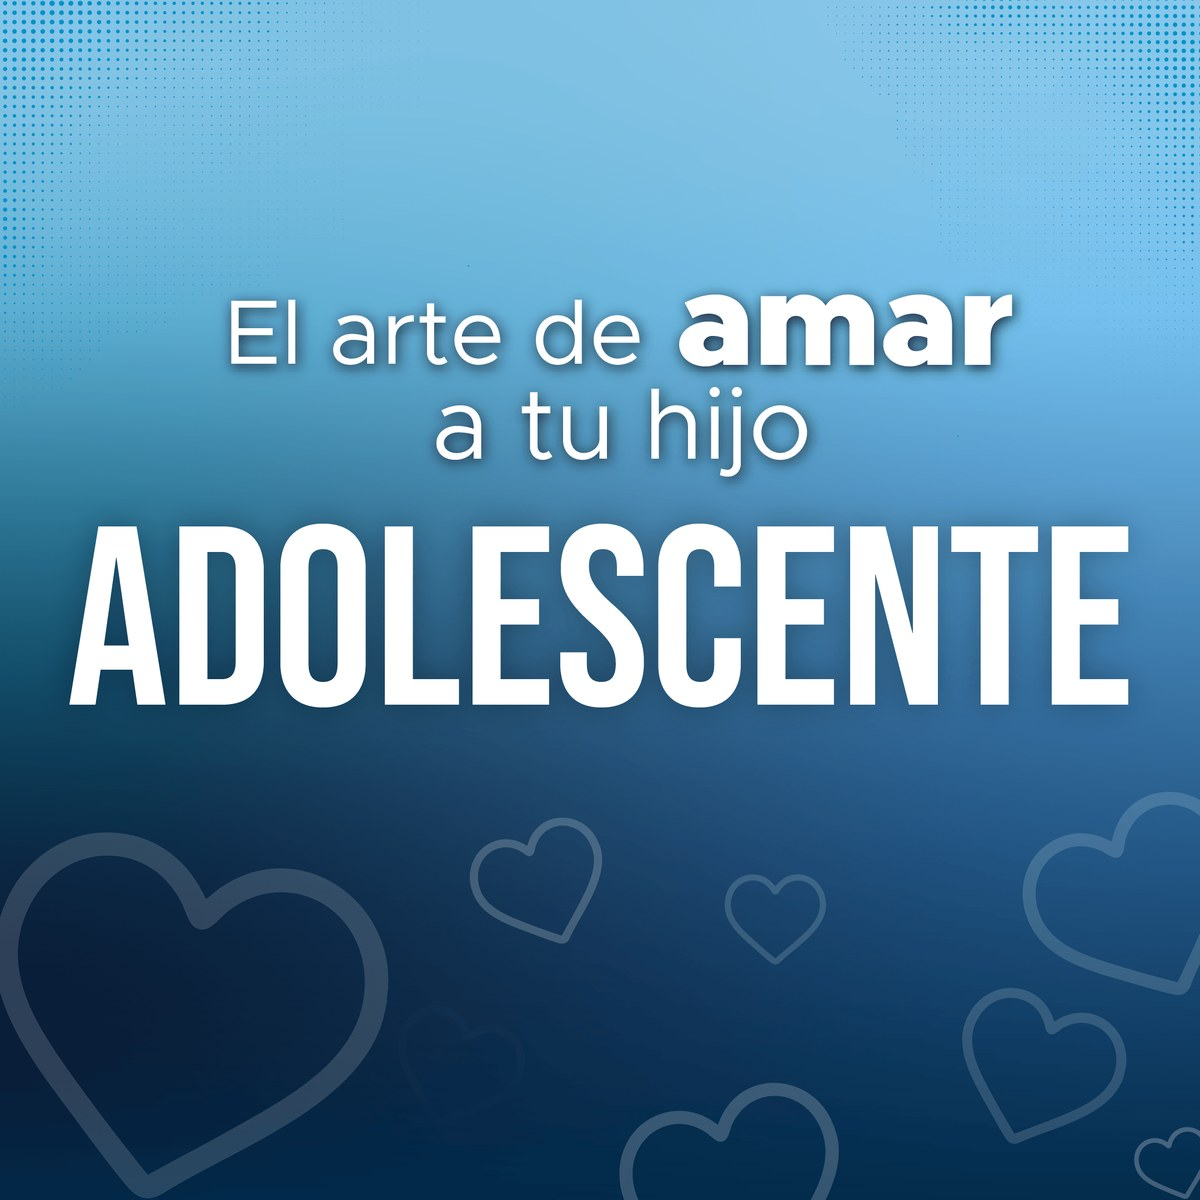
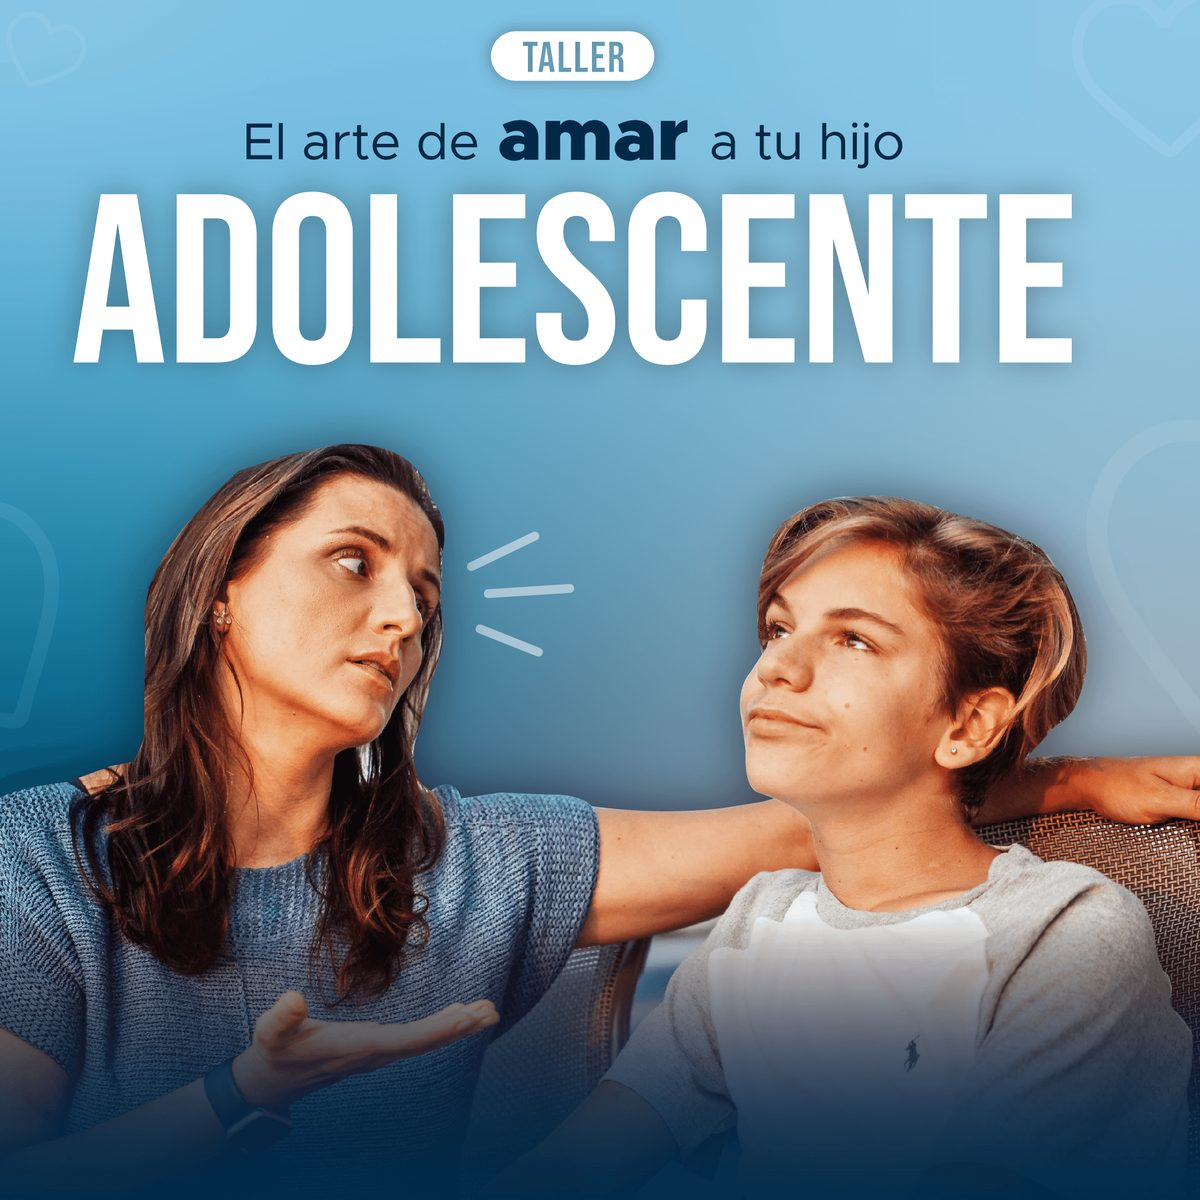
feat(web): «Libros publicados» con los tres y la miniatura del taller (#36)
- #quien y #facilitador: el rótulo «Obra» pasa a «Libros publicados», con
  Construyendo Familias Fuertes · Padres digitalmente responsables ·
  Inteligencias Múltiples en la Familia (en #quien, en cursiva y sin «Autor de»).
- Hero de la portada: «3 libros».
- og-merida-1200x1200.jpg y og-merida-1200x630.jpg reemplazados por los del
  insumo del 3/10 (el ?v= cambia solo); ogImageAlt de /merida: «Taller · El arte
  de amar a tu hijo adolescente».
- lo-que-mando-armando.test.ts: test nuevo contra la orden #36; «Obra» no queda
  como rótulo en ninguna página. Se lo vio fallar con dos mutaciones.
- Capturas actualizadas por la orden #36: inicio y taller (1440/900/390, texto y
  png) y taller-cabeza.json.

diff --git a/apps/web/src/lo-que-mando-armando.test.ts b/apps/web/src/lo-que-mando-armando.test.ts
@@ -59,9 +59,15 @@ const INSUMOS = join(REPO, '..', '..', '03 Producto', 'web', 'insumos', '2026-09
    comillas latinas. Esa orden es el insumo: Rodolfo no produce insumos, y una
    copia acá sería la segunda verdad que este archivo existe para evitar. */
 const PEDIDO_DEL_2_10 = join(REPO, '..', '..', '03 Producto', 'codice', 'ordenes', 'orden-33-la-web-sin-mi-espacio-por-ahora.md');
-const HAY_INSUMO = existsSync(INSUMOS) && existsSync(PEDIDO_DEL_2_10);
+/* ── El pedido del 3/10 (orden #36) ──────────────────────────────────────
+   «Libros publicados» con el tercer libro y la miniatura del taller. Llegó por
+   WhatsApp a Germán y dirección lo dejó escrito en la orden #36, entre comillas
+   latinas: esa orden es el insumo, por la misma razón que la #33. */
+const PEDIDO_DEL_3_10 = join(REPO, '..', '..', '03 Producto', 'codice', 'ordenes', 'orden-36-libros-publicados-y-miniatura.md');
+const HAY_INSUMO = existsSync(INSUMOS) && existsSync(PEDIDO_DEL_2_10) && existsSync(PEDIDO_DEL_3_10);
 const LEEME = HAY_INSUMO ? readFileSync(INSUMOS, 'utf8') : '';
 const PEDIDO = HAY_INSUMO ? readFileSync(PEDIDO_DEL_2_10, 'utf8') : '';
+const PEDIDO_36 = HAY_INSUMO ? readFileSync(PEDIDO_DEL_3_10, 'utf8') : '';
 const DIST = join(dirname(fileURLToPath(import.meta.url)), '..', 'dist');
 
 /**
@@ -210,6 +216,41 @@ suite('la web dice lo que mandó Armando, carácter por carácter', () => {
     expect(html.length, 'terminos.html no está en dist: corre el build antes').toBeGreaterThan(1000);
     expect(html, 'lo publicado').toContain(RESERVAS);
     expect(html, 'el texto de antes').not.toContain('se reservan en Mi espacio');
+  });
+
+  it('#36: «Libros publicados» con los tres, «3 libros» en el hero y el alt de la miniatura', () => {
+    const LIBROS = 'Construyendo Familias Fuertes · Padres digitalmente responsables · Inteligencias Múltiples en la Familia';
+    const CLAVE = 'Libros publicados';
+    const ALT = 'Taller · El arte de amar a tu hijo adolescente';
+    for (const valor of [LIBROS, CLAVE, ALT, '3 LIBROS']) {
+      expect(PEDIDO_36, `«${valor}» no está en el pedido del 3/10`).toContain(`«${valor}»`);
+    }
+    /* Las dos fichas. La de #quien arma el valor con tres <em>, así que se
+       compara la suma de sus partes: el texto que lee la persona. */
+    const quien = web.inicio.quien;
+    expect(quien.fichaLibrosClave).toBe(CLAVE);
+    expect([quien.fichaLibrosLibro1, quien.fichaLibrosLibro2, quien.fichaLibrosLibro3].join(quien.fichaLibrosEntre)).toBe(LIBROS);
+    expect(web.taller.facilitador.librosClave).toBe(CLAVE);
+    expect(web.taller.facilitador.librosValor).toBe(LIBROS);
+    /* El hero lo pone en mayúsculas por CSS; el texto es «3 libros». */
+    expect(web.inicio.hero.micro3.toUpperCase()).toBe('3 LIBROS');
+    expect(web.taller.head.ogImageAlt).toBe(ALT);
+
+    /* Lo publicado: «Obra» no queda como rótulo en ninguna página, ni «2 libros». */
+    for (const { archivo } of RUTAS) {
+      const ruta = join(DIST, archivo);
+      const html = existsSync(ruta) ? readFileSync(ruta, 'utf8') : '';
+      expect(html.length, `${archivo} no está en dist: corre el build antes`).toBeGreaterThan(1000);
+      expect(html, `${archivo} todavía tiene el rótulo «Obra»`).not.toMatch(/>\s*Obra\s*</);
+      expect(html, `${archivo} todavía dice «2 libros»`).not.toMatch(/>\s*2 libros\s*</i);
+    }
+    const inicio = readFileSync(join(DIST, 'index.html'), 'utf8');
+    expect(inicio, 'la ficha de #quien, con los tres en cursiva').toContain(
+      `<em>${quien.fichaLibrosLibro1}</em> · <em>${quien.fichaLibrosLibro2}</em> · <em>${quien.fichaLibrosLibro3}</em>`,
+    );
+    const merida = readFileSync(join(DIST, 'merida.html'), 'utf8');
+    expect(merida, 'la ficha de #facilitador').toContain(LIBROS);
+    expect(merida, 'el og:image:alt de /merida').toContain(`property="og:image:alt" content="${ALT}"`);
   });
 
   it('y el lector de núcleos distingue una línea de núcleo de la prosa de al lado', () => {

diff --git a/apps/web/src/web/taller/Facilitador.tsx b/apps/web/src/web/taller/Facilitador.tsx
@@ -6,7 +6,7 @@ import { Seccion } from '../comun/Seccion';
  * Sobre el facilitador.
  *
  * ── El `style=` que había acá, y por qué ya no está (orden #03) ───────────
- * Las claves de la ficha —«Familia», «Práctica», «Formación», «Obra»— llevaban
+ * Las claves de la ficha —«Familia», «Práctica», «Formación», «Obra» (hoy «Libros publicados», #36)— llevaban
  * el color escrito a mano en línea, crema al 60 %, copiado del sitio estático.
  * La #01 lo portó igual y lo dejó anotado como redundante: la regla
  * `.oscuro .ficha li span:first-child` decía exactamente lo mismo.
@@ -37,7 +37,7 @@ export function Facilitador() {
             <li><span>{t('taller.facilitador.familiaClave')}</span><span>{t('taller.facilitador.familiaValor')}</span></li>
             <li><span>{t('taller.facilitador.practicaClave')}</span><span>{t('taller.facilitador.practicaValor')}</span></li>
             <li><span>{t('taller.facilitador.formacionClave')}</span><span>{t('taller.facilitador.formacionValor')}</span></li>
-            <li><span>{t('taller.facilitador.obraClave')}</span><span>{t('taller.facilitador.obraValor')}</span></li>
+            <li><span>{t('taller.facilitador.librosClave')}</span><span>{t('taller.facilitador.librosValor')}</span></li>
           </ul>
           <blockquote className="cita u-mt-5 reveal" data-d="3">
             {t('taller.facilitador.cita')}<small>{t('taller.facilitador.citaFirma')}</small>

diff --git a/apps/web/src/web/inicio/Quien.tsx b/apps/web/src/web/inicio/Quien.tsx
@@ -40,12 +40,13 @@ export function Quien() {
               <span>{t('inicio.quien.fichaPracticaValor')}</span>
             </li>
             <li>
-              <span><Icono nombre="obra" ancho={24} alto={24} />{t('inicio.quien.fichaObraClave')}</span>
+              <span><Icono nombre="obra" ancho={24} alto={24} />{t('inicio.quien.fichaLibrosClave')}</span>
               <span>
-                {t('inicio.quien.fichaObraAntes')}
-                <em>{t('inicio.quien.fichaObraLibro1')}</em>
-                {t('inicio.quien.fichaObraEntre')}
-                <em>{t('inicio.quien.fichaObraLibro2')}</em>
+                <em>{t('inicio.quien.fichaLibrosLibro1')}</em>
+                {t('inicio.quien.fichaLibrosEntre')}
+                <em>{t('inicio.quien.fichaLibrosLibro2')}</em>
+                {t('inicio.quien.fichaLibrosEntre')}
+                <em>{t('inicio.quien.fichaLibrosLibro3')}</em>
               </span>
             </li>
             <li>

diff --git a/docs/informes/36/LEEME.md b/docs/informes/36/LEEME.md
@@ -1,0 +1,43 @@
+# Orden Códice #36: «Libros publicados» (tres) y la miniatura del taller
+
+Rama `web/36-libros-y-miniatura`, desde `main` (`42e1c26`, ya incluye la #35). Solo toca `apps/web` y `packages/core`.
+
+## Qué se hizo
+
+1. **«Obra» → «Libros publicados», con los tres** (`packages/core/src/i18n/es/web.json`):
+   - `#quien` (portada): ahora dice *Construyendo Familias Fuertes* · *Padres digitalmente responsables* · *Inteligencias Múltiples en la Familia*. Los tres van en cursiva y se sacó «Autor de». Se cambiaron las claves `fichaObra*` por `fichaLibros*` (`Quien.tsx`).
+   - `#facilitador` (`/merida`): «Construyendo Familias Fuertes · Padres digitalmente responsables · Inteligencias Múltiples en la Familia». Se cambiaron las claves `obraClave/obraValor` por `librosClave/librosValor` (`Facilitador.tsx`).
+   - En el hero de la portada, «2 libros» pasa a **«3 libros»** (en pantalla sale en mayúsculas por CSS). La descripción de `<head>` y la sección «Libros» con dos tapas no cambian.
+2. **La miniatura**: `apps/web/public/img/og-merida-1200x1200.jpg` y `og-merida-1200x630.jpg` se reemplazaron por los de `03 Producto/web/insumos/2026-10-03-miniatura-armando/`, con los mismos nombres y 1200×1200 / 1200×630 medidos. El `?v=` cambió solo: 630 `c72cdd49` → `349ff6d6`, 1200 `63d4f1fb` → `756abc35`. `ogImageAlt` de `/merida` = «Taller · El arte de amar a tu hijo adolescente». `og-home` no se tocó.
+
+## Verificación
+
+- **Gate verde:** 785 tests, 53 en Chromium, 0 saltados.
+- **Huellas:** `las-imagenes-llevan-su-huella.test.ts` 4/4. Hay 20 imágenes con huella en `/` y 32 en `/merida`, la misma cantidad que antes.
+- **`lo-que-mando-armando.test.ts`**, con un test nuevo para la #36. Compara contra la orden #36 (las comillas latinas), no contra una copia. Revisa:
+  - las dos fichas, el «3 libros» y el `ogImageAlt` en i18n;
+  - en `dist`, que ninguna página tenga el rótulo `>Obra<` ni `>2 libros<`;
+  - que la ficha de `#quien` tenga los tres `<em>`;
+  - y el `og:image:alt` de `/merida`.
+
+  Se lo vio fallar con dos mutaciones:
+  - (a) le saqué el tercer título a `librosValor` → rojo en `toBe(LIBROS)`;
+  - (b) volví a poner `>Obra<` en `dist/merida.html` → rojo con «merida.html todavía tiene el rótulo «Obra»».
+
+  Después de devolver los dos cambios, 7/7 en verde.
+- **Fidelidad: capturas actualizadas por la orden #36.** Cambian `inicio` y `taller` a 1440/900/390, en los `.png` y en el `-texto.txt`, y también `taller-cabeza.json`. El diff de texto es exactamente:
+  - «OBRA Autor de … y …» → «LIBROS PUBLICADOS … · … · Inteligencias Múltiples en la Familia»;
+  - «LIDERAZGO2» → «LIDERAZGO3»;
+  - las dos `?v=` de `og-merida-*`.
+
+  `privacidad` y `terminos` no cambian.
+
+## Capturas (1440×900, `apps/web/check/capturas-36.mjs`)
+
+- `quien-ficha-1440.jpg` y `quien-portada-1440.jpg`
+- `facilitador-ficha-1440.jpg` y `facilitador-merida-1440.jpg`
+
+## Pendiente
+
+- **Después del merge, el CEO verifica la miniatura** en el depurador de Facebook y pegando `armandoduarte.com/merida` en WhatsApp.
+- **Decisión para Armando:** si manda la portada de *Inteligencias Múltiples en la Familia*, se suma la tercera tarjeta en «Libros».
